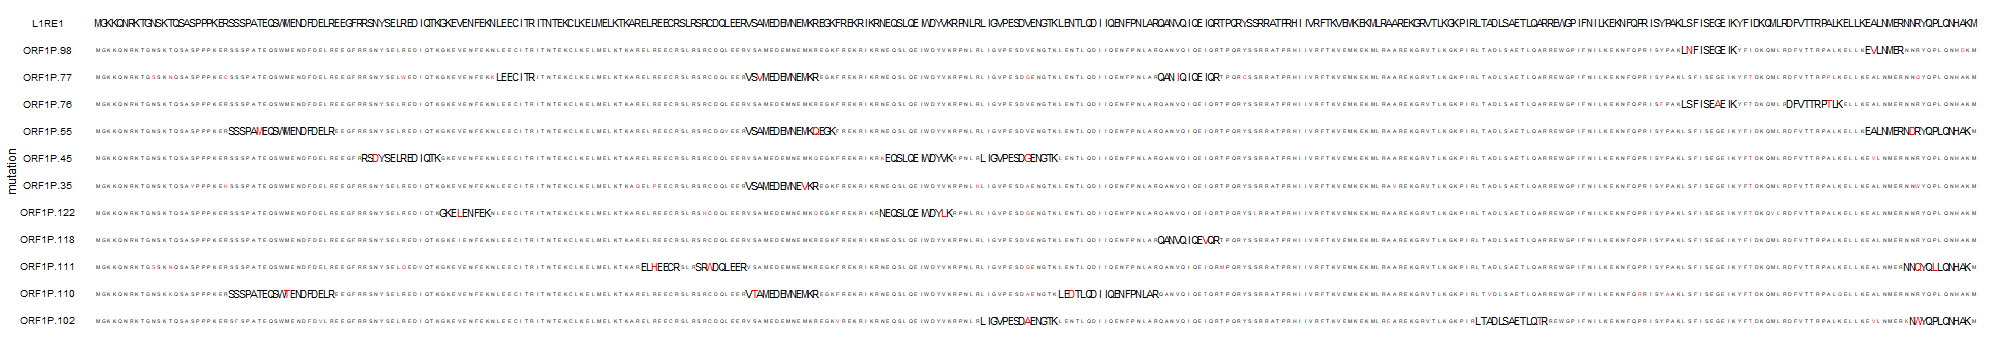
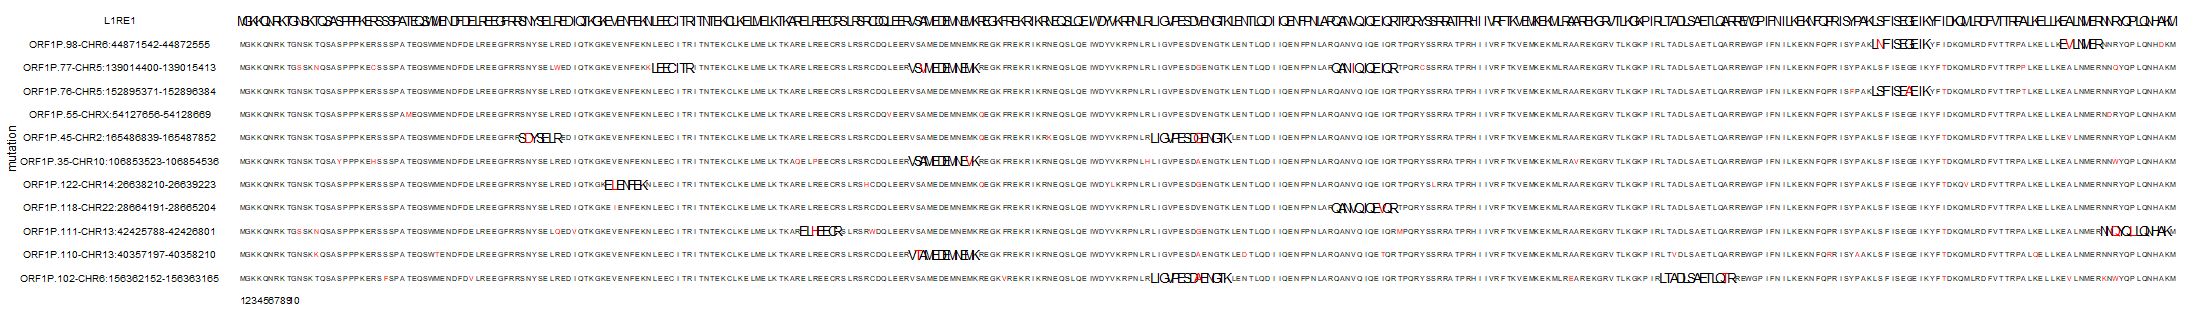
Update the names

diff --git a/ReadMe.md b/ReadMe.md
@@ -1,21 +1,23 @@
 # Line 1 CRC IP MS
 ##### Data are available via ProteomeXchange with identifier PXD013743.
 ##### contact moghbaie@rockefeller.edu for any questions
-##### 12/10/2018
+##### 06/06/2019
 
 
-We had 8 groups as follow:
+We had 10 groups as follow:
 
-|	Site of Tumor	|	Condition	|	Tumor	| 	Diagnosis	| IHC staining source	|
-| ------------- | ------------- |------------- | ------------- |------------- |
-| Ovary  | Igg  |	A	|	Krukenberg Carcinoma	|	Very very strong L1 expresse	|
-| Ovary  | Normal  |	A	|	Krukenberg Carcinoma	|	Very very strong L1 expresse	|
-|	Liver	|	Igg	|	B	|	Metastatic Rectal Adenocarcinoma	|	Strong 3/3 in liver and node	|
-|	Liver	|	Normal	|	B	|	Metastatic Rectal Adenocarcinoma	|	Strong 3/3 in liver and node	|
-|	Liver	|	Tumor	|	B	|	Metastatic Rectal Adenocarcinoma	|	Strong 3/3 in liver and node	|
-|	Colon	|	Igg	|	C	|	Adenocarcinoma	|	2/3 expression	|
-|	Colon	|	Normal	|	C	|	Adenocarcinoma	|	2/3 expression	|
-|	Colon	|	Tumor	|	C	|	Adenocarcinoma	|	2/3 expression	|
+|	Site of Tumor	|	Condition	|	Tumor	| 	Diagnosis	| IHC staining source	| Version |
+| ------------- | ------------- |------------- | ------------- |------------- |------------- |
+| Ovary  | Igg  |	A	|	Krukenberg Carcinoma	|	Very very strong L1 expresse	| 1 |
+| Ovary  | Normal  |	A	|	Krukenberg Carcinoma	|	Very very strong L1 expresse	| 1 |
+| Ovary  | Igg  |	A	|	Krukenberg Carcinoma	|	Very very strong L1 expresse	| 2 |
+| Ovary  | Normal  |	A	|	Krukenberg Carcinoma	|	Very very strong L1 expresse	| 2 |
+|	Liver	|	Igg	|	B	|	Metastatic Rectal Adenocarcinoma	|	Strong 3/3 in liver and node	| 1 |
+|	Liver	|	Normal	|	B	|	Metastatic Rectal Adenocarcinoma	|	Strong 3/3 in liver and node	| 1 |
+|	Liver	|	Tumor	|	B	|	Metastatic Rectal Adenocarcinoma	|	Strong 3/3 in liver and node	| 1 |
+|	Colon	|	Igg	|	C	|	Adenocarcinoma	|	2/3 expression	| 1 |
+|	Colon	|	Normal	|	C	|	Adenocarcinoma	|	2/3 expression	| 1 |
+|	Colon	|	Tumor	|	C	|	Adenocarcinoma	|	2/3 expression	| 1 |
 
 
 
@@ -51,28 +53,32 @@ Project code and data is organized in following order:
 ![VennDiagram of significant proteins ](Image/Volcano_plot/Significant_VennDiagram.png)
 
 ### Volcano plots and mutations
-#### comparison between Colon Tumor tissue against ORF1 and IgG
+#### comparison between Tumor C (colon) against ORF1 and IgG
 ![Volcano plot compare Colon Tumor tissue to Igg ](Image/Volcano_plot/Volcano_plot_Colon_Tumor_163T_IgG_7.png)
 <br>
-#### comparison between Colon Tumor tissue and normal tissue against ORF1 
+#### comparison between Tumor C (colon) and normal tissue against ORF1 
 ![Volcano plot compare Colon Tumor tissue to Normal ](Image/Volcano_plot/Volcano_plot_Colon_Tumor_163N_ORF1_8.png)
-![Observed significant mutation colon tissue to normal ](Image/Phylogenetic_tree/Colon_Tumor_163N_ORF1_8.png)
+
 <br>
-#### comparison between Liver Tumor tissue against ORF1 and IgG 
+#### comparison between Tumor B (liver) against ORF1 and IgG 
 ![Volcano plot compare Liver Tumor tissue to Igg ](Image/Volcano_plot/Volcano_plot_Liver_Tumor_159T_IgG_4.png)
 ![Observed significant Liver colon tissue against ORF1 and IgG ](Image/Phylogenetic_tree/Liver_Tumor_159T_IgG_4.png)
+![Mutation frequency in liver tumor  against ORF1 and IgG ](Image/Phylogenetic_tree/mutation_fre_Liver_Tumor_159T_IgG_4.png)
 <br>
-#### comparison between Liver Tumor tissue and normal tissue against ORF1
+#### comparison between Tumor B (liver) and normal tissue against ORF1
 ![Volcano plot compare Liver Tumor tissue to Normal ](Image/Volcano_plot/Volcano_plot_Liver_Tumor_159N_ORF1_5.png)
 ![Observed significant Liver Tumor tissue and normal tissue against ORF1 ](Image/Phylogenetic_tree/Liver_Tumor_159N_ORF1_5.png)
+![Mutation frequency in liver tumor and normal tissue against ORF1 ](Image/Phylogenetic_tree/mutation_fre_Liver_Tumor_159N_ORF1_5.png)
 <br>
-#### comparison between Ovary Tumor tissue against ORF1 and IgG 
+#### comparison between Tumor A (ovary) against ORF1 and IgG 
 ![Volcano plot compare Ovary Tumor tissue to Igg - phase1](Image/Volcano_plot/Volcano_plot_Ovary_Tumor_144T_IgG_2.png)
 ![Observed significant Ovary Tumor tissue against ORF1 and IgG - phase1](Image/Phylogenetic_tree/Ovary_Tumor_144T_IgG_2.png)
+![Mutation frequency in Ovary tumor   against ORF1 and IgG ](Image/Phylogenetic_tree/Ovary_Tumor_144T_IgG_2.png)
 <br>
-#### comparison between Ovary Tumor tissue and normal tissue against ORF1 
+#### comparison between Tumor A (ovary) and normal tissue against ORF1 
 ![Volcano plot compare Ovary Tumor tissue to Igg - phase2](Image/Volcano_plot/Volcano_plot_Ovary_Tumor_144T_IgG_10.png)
 ![Observed significant Ovary Tumor tissue against ORF1 and IgG - phase2](Image/Phylogenetic_tree/Ovary_Tumor_144T_IgG_10.png)
+![Mutation frequency in Ovary tumor  and normal tissue against ORF1  ](Image/Phylogenetic_tree/Ovary_Tumor_144T_IgG_10.png)
 
 ## Integrated plot:
 ### Venndiagram:
@@ -82,8 +88,8 @@ Project code and data is organized in following order:
 ![MDS plot ](Image/Integrated_plot/movie.gif)
 <br>
 <br>
-### Polar map of significant proteins in Colon cancer in different tissue:
-![Polar map - comparison of Colon significant proteins in different tissue](Image/Integrated_plot/heatmap_colon_significant.png)
+### Polar map of proteins that were significant in two conditions or were observed in previous researches and were significant in at least one condition:
+![Polar map - comparison of Colon significant proteins in different tissue](Image/Integrated_plot/heatmap_significant_eLife.png)
 
 ### Heat map of all significant proteins across different tissues:
 ![Heatmap - all significant proteins](Image/Integrated_plot/heatmap_all_significant.png)
